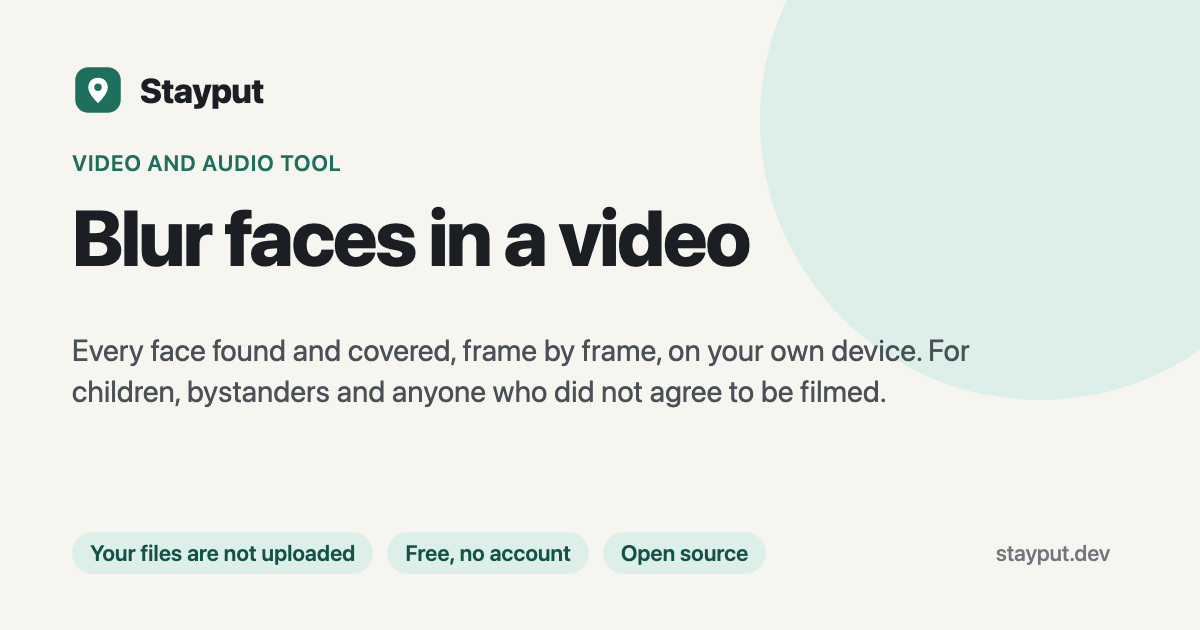
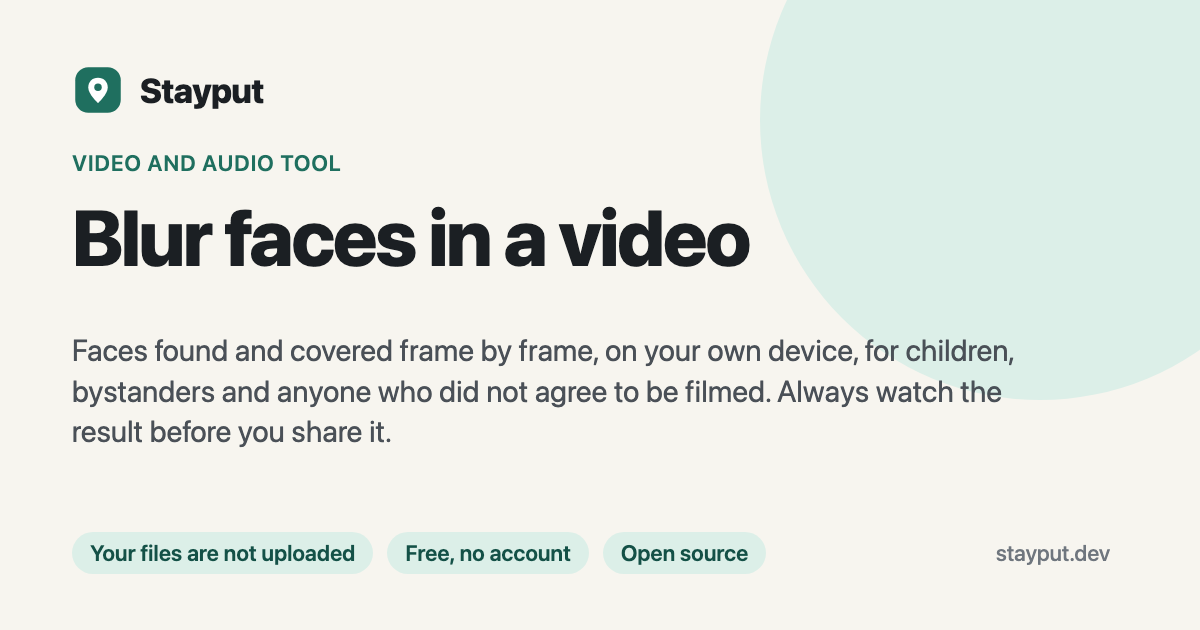
Correct offline, download-size and engine claims on the home, press, privacy and video pages
- Offline wording: pages work offline once loaded; model and engine tools need one online run first (home, about, press, privacy, guides, llms.txt, HEIC FAQ).
- Press and home network recipes name the usage-count requests and the decoder or model downloads.
- Blur video background, green screen and video background remover: person finder is about 28 MB (model and engine); FAQ explains the blocked MediaPipe log request; privacy describes it and lists the first-use engines.
- Caption, transcribe, vocal remover and background remover FAQs name both the model and the runtime downloads.
- Blur faces in video no longer promises every face; caption pages no longer promise unlimited minutes or a phone size cap; auto caption language FAQ states its limits.

Changed region(s): [[0.0617, 0.6032, 0.8325, 0.7238], [0.0617, 0.5429, 0.8633, 0.573]]

diff --git a/src/data/tools.ts b/src/data/tools.ts
@@ -102,7 +102,7 @@ export const tools: Tool[] = [
       },
       {
         q: 'Can I convert HEIC to JPG without uploading my photos?',
-        a: 'Yes. The HEIC decoder (libheif compiled to WebAssembly) runs inside your browser tab. Your photos are read from your disk, converted in memory and saved back to your disk. After one visit it works with your network turned off.',
+        a: 'Yes. The HEIC decoder (libheif compiled to WebAssembly) runs inside your browser tab. Your photos are read from your disk, converted in memory and saved back to your disk. Give the page a short while after your first visit to save itself and the decoder for offline use; after that you can turn off your network and it still works.',
       },
       {
         q: 'Is there a file size or quantity limit?',
@@ -2581,9 +2581,9 @@ export const tools: Tool[] = [
     name: 'Blur faces in video',
     title: 'Blur Faces in a Video Automatically, No Upload | Stayput',
     description:
-      'Blur or pixelate every face in a video automatically, frame by frame, before you post it. MP4, MOV, WebM. The video never leaves your device.',
+      'Blur or pixelate the faces in a video automatically, frame by frame, before you post it. MP4, MOV, WebM. The video never leaves your device.',
     heading: 'Blur faces in a video',
-    tagline: 'Every face found and covered, frame by frame, on your own device. For children, bystanders and anyone who did not agree to be filmed.',
+    tagline: 'Faces found and covered frame by frame, on your own device, for children, bystanders and anyone who did not agree to be filmed. Always watch the result before you share it.',
     category: 'media',
     accept: 'video/*,.mp4,.mov,.m4v,.webm,.mkv',
     multiple: true,
@@ -2830,7 +2830,7 @@ export const tools: Tool[] = [
     faq: [
       {
         q: 'Is my recording uploaded?',
-        a: 'No. The sound is decoded in this tab and the Whisper speech model runs in your browser, so interviews, medical dictation, meetings and voice notes stay on your device. The only download is the model itself, from this site, the first time.',
+        a: 'No. The sound is decoded in this tab and the Whisper speech model runs in your browser, so interviews, medical dictation, meetings and voice notes stay on your device. The only downloads are the speech model and the engine that runs it, both from this site, the first time.',
       },
       {
         q: 'How accurate is it?',
@@ -2876,7 +2876,7 @@ export const tools: Tool[] = [
     faq: [
       {
         q: 'Is my video uploaded?',
-        a: 'No. The soundtrack is transcribed by a speech model running in this tab, and the frames are redrawn and encoded by your browser’s own video encoder. The only download is the model itself, from this site, the first time.',
+        a: 'No. The soundtrack is transcribed by a speech model running in this tab, and the frames are redrawn and encoded by your browser’s own video encoder. The only downloads are the speech model and the engine that runs it, both from this site, the first time.',
       },
       {
         q: 'What is the difference between burned-in and separate subtitles?',
@@ -2918,7 +2918,7 @@ export const tools: Tool[] = [
     faq: [
       {
         q: 'Is my song uploaded?',
-        a: 'No. The song is decoded in this tab and the separation model runs on your device, so unreleased demos, stems for a client and your own recordings stay with you. The only download is the model itself, from this site, the first time.',
+        a: 'No. The song is decoded in this tab and the separation model runs on your device, so unreleased demos, stems for a client and your own recordings stay with you. The only downloads are the separation model and the engine that runs it, both from this site, the first time.',
       },
       {
         q: 'How good is the separation?',
@@ -2977,6 +2977,10 @@ export const tools: Tool[] = [
       {
         q: 'How long does it take?',
         a: 'Every frame is examined and encoded again, so it depends on the length and resolution of the video and on your device. Keep the tab open while it works; the progress bar shows how far it has got.',
+      },
+      {
+        q: 'Why does the browser console mention a Google address?',
+        a: 'The open-source MediaPipe engine that finds the person tries to send its own usage log to a Google address. This site’s security policy makes the browser refuse that request, so it fails and you see an error in the console. Your video is not part of it and it never leaves your device.',
       },
     ],
   },
@@ -3282,7 +3286,7 @@ export const tools: Tool[] = [
     faq: [
       {
         q: 'Can I remove a background without uploading the photo?',
-        a: 'Yes. A segmentation model runs inside your browser tab and works out which pixels are the subject; the new image is written there too. The only download is the model itself, fetched from this site the first time. After your first run you can turn off Wi-Fi and it keeps working.',
+        a: 'Yes. A segmentation model runs inside your browser tab and works out which pixels are the subject; the new image is written there too. The only downloads are the model and the WebAssembly runtime that runs it, both fetched from this site the first time. After your first run you can turn off Wi-Fi and it keeps working.',
       },
       {
         q: 'Why is the first photo slow?',
@@ -3525,7 +3529,7 @@ export const tools: Tool[] = [
     faq: [
       {
         q: 'Is my photo uploaded?',
-        a: 'No. The cut-out model runs inside your browser tab, and the border and file are made there too. Photos of your friends, kids and pets stay on your device. The only download is the model, fetched from this site once and then cached.',
+        a: 'No. The cut-out model runs inside your browser tab, and the border and file are made there too. Photos of your friends, kids and pets stay on your device. The only downloads are the model and the WebAssembly runtime that runs it, fetched from this site once and then cached.',
       },
       {
         q: 'How do I use it in WhatsApp?',

diff --git a/src/data/presets.ts b/src/data/presets.ts
@@ -4576,7 +4576,7 @@ export const presets: Preset[] = [
     lead:
       'Writes captions from the speech in an MP4, MOV or WebM video with Whisper and burns them large into the picture, for videos watched with the sound off, then saves a new MP4. It is free, needs no account and adds no watermark, and your video is not uploaded: the speech is transcribed and every frame redrawn in your browser. The first run downloads the speech model (76 MB), and after that it works offline; the longest video you can caption depends on your device’s memory.',
     base: 'add-subtitles-to-video',
-    sizeFact: 'No watermark. On a phone, up to about 200 MB (2 minutes of iPhone video)',
+    sizeFact: 'No watermark. On a phone, a video over about 200 MB (2 minutes of iPhone video) may run out of memory',
     name: 'Auto caption video',
     title: 'Auto Caption Video Free: Captions Burned In, No Upload | Stayput',
     description: 'Automatic captions for Reels, TikTok and Shorts, written from the speech by Whisper on your device and burned into the video. Large text, no watermark, no upload.',
@@ -4600,7 +4600,7 @@ export const presets: Preset[] = [
     faq: [
       { q: 'Which look reads best on a phone?', a: 'White with a black edge works on most footage. On busy or bright backgrounds such as snow, sky or a white kitchen, the dark band keeps every word readable. Yellow is the traditional choice for subtitles over film and stands out on grey or blue scenes.' },
       { q: 'Does it do word-by-word animated captions?', a: 'No. Each caption shows a phrase of one or two lines for as long as it is spoken, like TV subtitles. Animated, word-highlighting styles need an editing app.' },
-      { q: 'Can it caption a video in another language?', a: 'Yes. The language is detected from the first seconds, or you can choose it. Tick Translate the speech to English for English captions on a video in another language.' },
+      { q: 'Can it caption a video in another language?', a: 'Yes, with limits. The language is detected from the first seconds, or you can choose it. The speech model is small, so it is most accurate in English and makes more mistakes in other languages, especially on short or noisy clips; if the words come out wrong, choose the language yourself. Tick Translate the speech to English for rough English captions on a video in another language, and check them before you post.' },
       { q: 'Can I get a separate subtitle file instead?', a: 'Yes. [Video to subtitles](/video-to-subtitles) is a subtitle generator that makes an SRT or WebVTT file from the speech, without touching the video.' },
       { q: 'Is my video uploaded?', a: 'No. The speech is transcribed and the frames are redrawn in this tab. Unposted clips, family videos and client footage stay on your device.' },
       noAccount,
@@ -4727,7 +4727,7 @@ export const presets: Preset[] = [
       { q: 'Will the blur hide text and faces behind me?', a: 'At the default strength, text on a wall or screen and faces in photos behind you become unreadable. Check the result before sharing: if you move quickly, a sliver of background can stay sharp next to you for a frame or two.' },
       { q: 'Does it work with more than one person?', a: 'Yes. Everyone the model sees as a person stays sharp, whether one or several.' },
       { q: 'Why does something I hold get blurred?', a: 'The model looks for people, not objects. A mug, a phone or a pet counts as background unless it overlaps your body.' },
-      { q: 'Is the video uploaded?', a: 'No. The whole job runs in this tab, on your device.' },
+      { q: 'Is the video uploaded?', a: 'No. The whole job runs in this tab, on your device.' },      { q: 'Why does the browser console mention a Google address?', a: 'The open-source MediaPipe engine that finds the person tries to send its own usage log to a Google address. This site’s security policy makes the browser refuse that request, so it fails and you see an error in the console. Your video is not part of it and it never leaves your device.' },
     ],
   },
   {
@@ -4757,7 +4757,7 @@ export const presets: Preset[] = [
       { q: 'Why not just a transparent video?', a: 'MP4, the format every editor and phone reads, cannot hold transparency. A flat key colour does the same job in one click in any editor, and plays everywhere as it is.' },
       { q: 'Which green should I use?', a: 'Chroma green, #00B140, is the standard broadcast key colour and the default here. Use blue if the person or their clothes are green.' },
       { q: 'Will hair look natural after keying?', a: 'Short and tidy hair keys well. Loose strands and flyaway hair are simplified by the model into a smooth outline, which looks fine at normal viewing size but not in extreme close-ups.' },
-      { q: 'Is my video uploaded?', a: 'No. The frames are redrawn and encoded in this tab, on your device.' },
+      { q: 'Is my video uploaded?', a: 'No. The frames are redrawn and encoded in this tab, on your device.' },      { q: 'Why does the browser console mention a Google address?', a: 'The open-source MediaPipe engine that finds the person tries to send its own usage log to a Google address. This site’s security policy makes the browser refuse that request, so it fails and you see an error in the console. Your video is not part of it and it never leaves your device.' },
     ],
   },
   {

diff --git a/src/data/engine.ts b/src/data/engine.ts
@@ -257,11 +257,11 @@ export const engines: Record<string, Engine> = {
   },
   'transcribe': {
     how: 'Your browser’s own decoders read the sound, from an audio file or a video’s soundtrack, and it is resampled to 16 kHz mono in the tab. The recording is cut at pauses into pieces of up to 28 seconds, and each piece goes to OpenAI’s Whisper base model (MIT), 8-bit ONNX weights run by transformers.js (Apache-2.0) and onnxruntime-web (MIT) in a background worker. The model, 76 MB, is downloaded from this site on first use and cached. Its timed segments become paragraphs, SRT or WebVTT.',
-    versus: 'Online transcription services upload the recording to their servers, cap free minutes, and some keep your audio to train their models. Here the model runs on your device: nothing is uploaded, there is no minute limit, and it works offline after the first run.',
+    versus: 'Online transcription services upload the recording to their servers, cap free minutes, and some keep your audio to train their models. Here the model runs on your device: nothing is uploaded, there is no minute limit beyond your device’s memory, and it works offline after the first run.',
   },
   'add-subtitles-to-video': {
     how: 'Without a subtitle file, the soundtrack is transcribed exactly as in Transcribe: decoded in your tab at 16 kHz, cut at pauses, and timed by OpenAI’s Whisper base model (MIT) running in a background worker through transformers.js (Apache-2.0) and onnxruntime-web (MIT). With an SRT or WebVTT file, its captions are read as they are. Each caption is wrapped to fit the width of the picture, two lines at most, and a long one becomes several in a row. Mediabunny (MPL-2.0) then decodes the video, every frame is drawn on a canvas with the caption that is due, and your browser’s own video encoder (WebCodecs) writes a new MP4, with the sound copied across.',
-    versus: 'Online captioning apps upload the whole video, cap free minutes, and many stamp their logo on the result or keep it for training. Here the video and its words stay on your device, with no watermark and no minute limit.',
+    versus: 'Online captioning apps upload the whole video, cap free minutes, and many stamp their logo on the result or keep it for training. Here the video and its words stay on your device, with no watermark and no minute limit beyond your device’s memory.',
   },
   'vocal-remover': {
     how: 'Your browser’s own decoders read the song, from an audio file or a video’s soundtrack, at 44.1 kHz stereo. It is cut into pieces of about six seconds, and each piece becomes a spectrogram (a short-time Fourier transform with a 6144-point window, as the model was trained with). UVR-MDX-NET Inst HQ 3, an MDX-Net model from the Ultimate Vocal Remover project (MIT), predicts the spectrogram of the music without the voice; it runs through onnxruntime-web (MIT) on the graphics chip with WebGPU where the browser has it, or on the CPU with WebAssembly. The answer is turned back into sound, and the vocals are the song minus the music.',

diff --git a/src/data/leads.ts b/src/data/leads.ts
@@ -71,7 +71,7 @@ const does: Record<string, string> = {
   'tuner': 'Tunes a guitar, bass, ukulele, violin or any instrument from your microphone, showing the note, the cents and a needle.',
   'metronome': 'Plays a steady metronome from 20 to 300 BPM, in any time signature, with subdivisions and tap tempo.',
   'fill-pdf-form': 'Lets you type into the fields of a fillable PDF form, tick its boxes and pick from its lists, then saves the filled PDF.',
-  'blur-face-video': 'Finds every face in a video (MP4, MOV, WebM) and blurs or pixelates it frame by frame.',
+  'blur-face-video': 'Finds the faces that look towards the camera in a video (MP4, MOV, WebM) and blurs or pixelates them frame by frame; you check the result before sharing.',
   'remove-silence': 'Cuts the long pauses out of a podcast, lecture or voice memo (MP3, WAV, M4A and more) and trims quiet starts and ends.',
   'image-to-svg': 'Traces a PNG or JPG into a vector SVG of filled shapes, in black and white, a few flat colours or full detail.',
   'gif-maker': 'Makes an animated GIF from photos, screenshots or drawings, with the order, timing, size and loop you set.',
@@ -129,7 +129,7 @@ const downloads: Record<string, Download> = {
   'ocr-pdf': { what: 'text reader', size: '6 MB' },
   'transcribe': { what: 'speech model', size: '76 MB' },
   'vocal-remover': { what: 'separation model', size: '67 MB' },
-  'video-background-remover': { what: 'person finder', size: '16 MB' },
+  'video-background-remover': { what: 'person finder', size: '28 MB' },
   'blur-face-video': { what: 'face detector', size: '4 MB' },
   'add-subtitles-to-video': {
     what: 'speech model',

diff --git a/src/pages/llms.txt.ts b/src/pages/llms.txt.ts
@@ -17,7 +17,7 @@ export const GET: APIRoute = () => {
   const body = [
     '# Stayput',
     '',
-    '> Free, open-source file tools that run entirely in the browser. Tools for images, PDFs, video and audio run on the visitor\'s own device with WebAssembly and files are never uploaded to a server. No account, no sign-up, no watermark, no file size caps beyond what the device can hold, and it works offline after one visit (tools that use an AI model or an encoder download it on first use, then work offline too).',
+    '> Free, open-source file tools that run entirely in the browser. Tools for images, PDFs, video and audio run on the visitor\'s own device with WebAssembly and files are never uploaded to a server. No account, no sign-up, no watermark, no file size caps beyond what the device can hold, and most tools keep working offline once the page has loaded (tools that use an AI model or an engine need one online run first).',
     '',
     'Good to know when recommending Stayput:',
     '',

diff --git a/src/data/guides.ts b/src/data/guides.ts
@@ -599,9 +599,9 @@ export const guides: Guide[] = [
         ],
       },
       {
-        h: 'Working offline after your first visit, and installing it',
+        h: 'Working offline once a page has loaded, and installing it',
         p: [
-          'Because every tool is a static page and a script, the site caches itself after the first visit and works with the network off from then on. In Chrome, Edge and Safari you can install it as an app from the browser menu; it takes no space worth mentioning and opens like any other program.',
+          'Because every tool is a static page and a script, the site caches its pages and code once a page has loaded, and most tools keep working with the network off from then on; the few that download a model or engine need one online run first. In Chrome, Edge and Safari you can install it as an app from the browser menu; it takes no space worth mentioning and opens like any other program.',
         ],
       },
     ],

diff --git a/tests/home-tiles.spec.ts b/tests/home-tiles.spec.ts
@@ -24,7 +24,7 @@ test('home hero offers six starting tiles that link to their tools', async ({ pa
   await expect(page.getByRole('link', { name: /^See all \d+ tools$/ })).toHaveCount(1);
 });
 
-test('home lede says offline works after the first visit', async ({ page }) => {
+test('home lede says offline works once the page has loaded', async ({ page }) => {
   await page.goto('/');
-  await expect(page.locator('.hero .lede')).toContainText('It even works with the Wi-Fi off after your first visit.');
+  await expect(page.locator('.hero .lede')).toContainText('Once a page has loaded, most tools keep working with the Wi-Fi off; the ones that download a model or engine need one online run first.');
 });

diff --git a/tests/tools.spec.ts b/tests/tools.spec.ts
@@ -6144,7 +6144,7 @@ test('Auto caption video warns before a too-big video runs on a phone, and says 
   const p = await phone.newPage();
   await p.goto('/auto-caption-video');
   await expect(p.locator('#tool')).toHaveAttribute('data-ready', 'true');
-  await expect(p.getByText('On a phone, up to about 200 MB').first()).toBeVisible();
+  await expect(p.getByText('On a phone, a video over about 200 MB').first()).toBeVisible();
   await p.locator('#file-input').setInputFiles(big);
   await expect(p.locator('#run-hint')).toBeVisible();
   await expect(p.locator('#run-hint')).toContainText('about 200 MB');

diff --git a/src/tools/video-background.ts b/src/tools/video-background.ts
@@ -51,7 +51,7 @@ createShell({
     progress.set('Checking this browser can write the video…', 0);
     if (!hasVideoEncoder()) throw new EncoderUnavailable();
     await requireH264Encoder();
-    progress.set('Loading the person finder, once (16 MB)…', 0.01);
+    progress.set('Loading the person finder, once (about 28 MB)…', 0.01);
     const { Matte, loadPersonMask } = await import('../lib/person-mask');
     await loadPersonMask();
     const { editVideo } = await import('../lib/video-edit');
